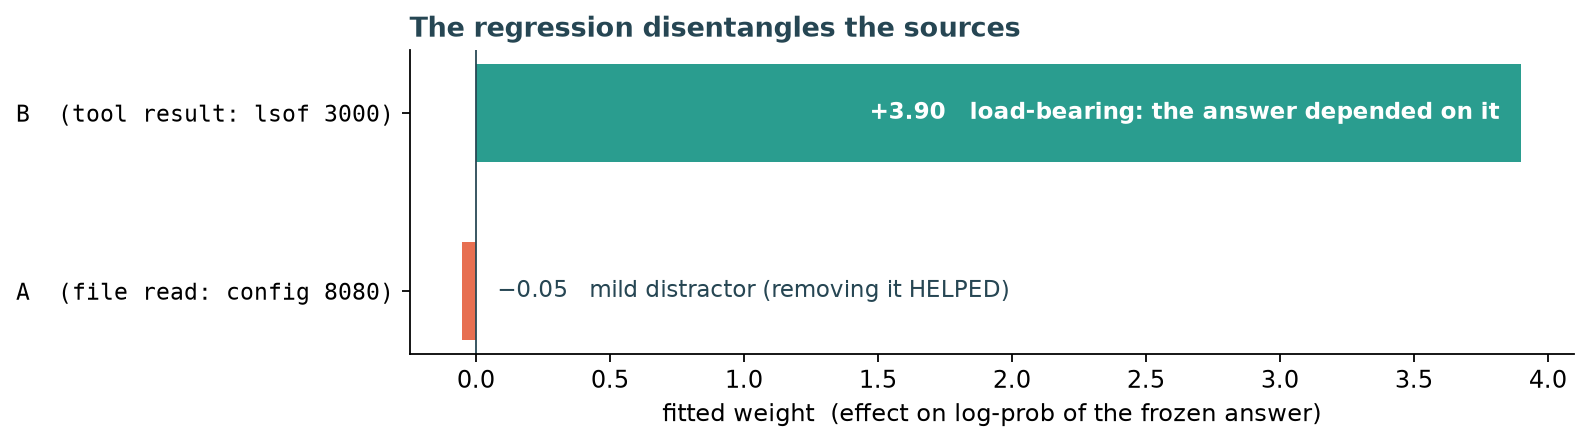
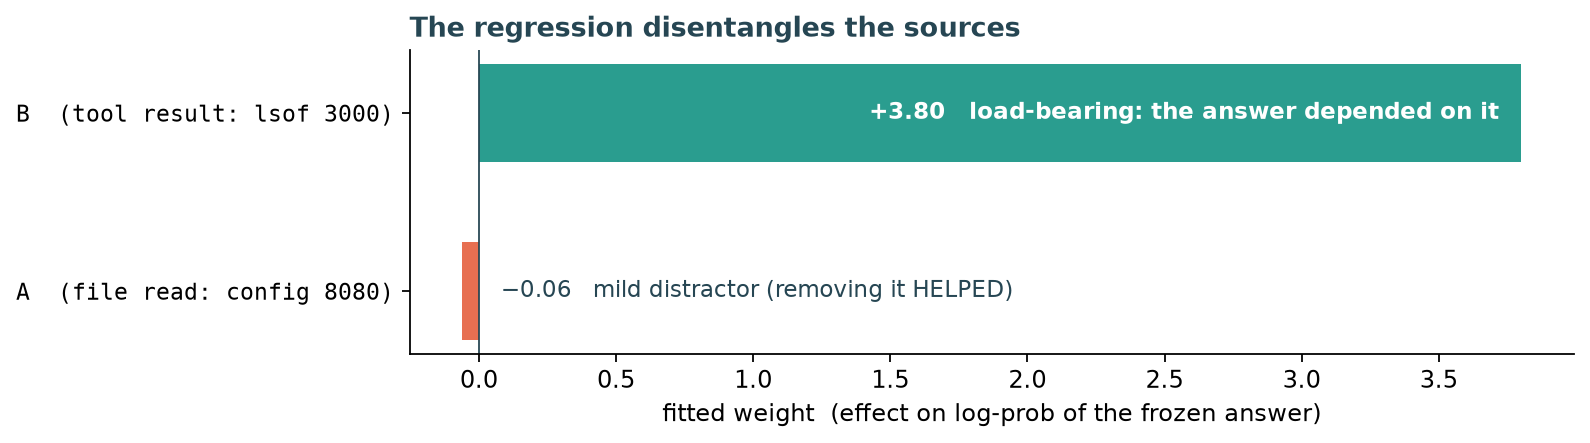
fix(blog): explicit natural-log base; self-consistent ablation table and fitted weights

diff --git a/content/blog/2026-07-12-did-your-agent-actually-read-that-file.md b/content/blog/2026-07-12-did-your-agent-actually-read-that-file.md
@@ -47,7 +47,7 @@ Grading gives us a single number for any (context, frozen answer) pair:
 
 $$\text{score} = \sum_t \log p(\text{answer token}_t \mid \text{everything before it})$$
 
-Read it as: *how confident is the model in this specific answer, given this specific context.*
+Read it as: *how confident is the model in this specific answer, given this specific context.* (Natural log throughout, the ML convention; if you recompute these with $\log_{10}$ you'll get numbers about 2.3x smaller.)
 
 > [!info] Why grading is cheap: prefill vs decode
 > Generation is expensive because it's sequential: one forward pass per new token, and each pass streams all the model's weights to produce a single token. Grading has no unknowns; the full sequence (context + frozen answer) goes through in **one** parallel forward pass, and the causal attention mask guarantees each position is scored using only the tokens before it. The language-model head fires at every position simultaneously. If this feels like a trick, it's literally how models are trained: a training step computes the loss over a known text in one pass, and nobody "rolls out" during training. Grading is a training step without the weight update. A 500-token answer costs 500 tokens of prefill, not 500 sequential steps.
@@ -72,14 +72,14 @@ Frozen answer: "3000"
 
 ```text
 softmax: { "3000": 0.90,  "8080": 0.08,  other: 0.02 }
-score = log(0.90) ≈ −0.11
+score = ln(0.90) ≈ −0.11
 ```
 
 **Now ablate B.** "Ablating" is physically dumb: delete B's tokens from the input. The prompt is just shorter now. Grade the *same* frozen answer:
 
 ```text
 softmax: { "3000": 0.02,  "8080": 0.93,  other: 0.05 }
-score = log(0.02) ≈ −3.9
+score = ln(0.02) ≈ −3.9
 ```
 
 Stare at this for a second, because it's the crux. Without the lsof output, the model *wants* to say "8080" (93%!). But we never let it say anything. We only read off how much probability it still assigns to the frozen "3000": a miserable 2%. The model is telling us, in one number: *without that tool result, I would not have said what I said.*
@@ -103,11 +103,11 @@ Collect the experiments into a table: which sources were kept, and what score ca
 | kept A? | kept B? | score |
 | ------- | ------- | ----- |
 | 1       | 1       | −0.11 |
-| 1       | 0       | −3.9  |
+| 1       | 0       | −3.90 |
 | 0       | 1       | −0.05 |
-| 0       | 0       | −4.2  |
+| 0       | 0       | −3.84 |
 
-Now fit a linear regression: $\text{score} \approx \text{base} + w_A \cdot A + w_B \cdot B$. Out come the attributions: $w_B \approx +3.9$ (the answer *depended* on the lsof output) and $w_A \approx -0.05$ (the config file was mildly hurting). The weights are **signed**, and negative weights are real findings: a source that actively pushed against the answer.
+Now fit a linear regression: $\text{score} \approx \text{base} + w_A \cdot A + w_B \cdot B$. Out come the attributions: $w_B \approx +3.8$ (the answer *depended* on the lsof output) and $w_A \approx -0.06$ (the config file was mildly hurting). Check it against the table: moving B from 0 to 1 lifts the score by ~3.79 whether A is present or not, and moving A from 0 to 1 *costs* ~0.06 either way. The weights are **signed**, and negative weights are real findings: a source that actively pushed against the answer.
 
 ![[blog/assets/ablation-fitted-weights.png|700]]
 
@@ -141,7 +141,7 @@ Proof is replaced by a per-use validity check. That's the right epistemics for a
 
 One more limit, and it's the one worth internalizing before you quote these numbers anywhere.
 
-We measured $w_B = +3.9$: the model's confidence in "3000" craters without the lsof output. Does that tell you what the agent *would have done* without B?
+We measured $w_B = +3.8$: the model's confidence in "3000" craters without the lsof output. Does that tell you what the agent *would have done* without B?
 
 No. And it can't, structurally. The method only ever grades **the answer that actually happened**. It knows that answer becomes unlikely without B; it cannot know what would have replaced it. Maybe a paraphrase ("the server is on port 3000"), in which case the *behavior* didn't depend on B at all, only the exact wording did. Maybe a completely different action. Distinguishing those requires actually generating under the ablated context, a rollout, which is a different (and more expensive) instrument with different validity problems.
 
